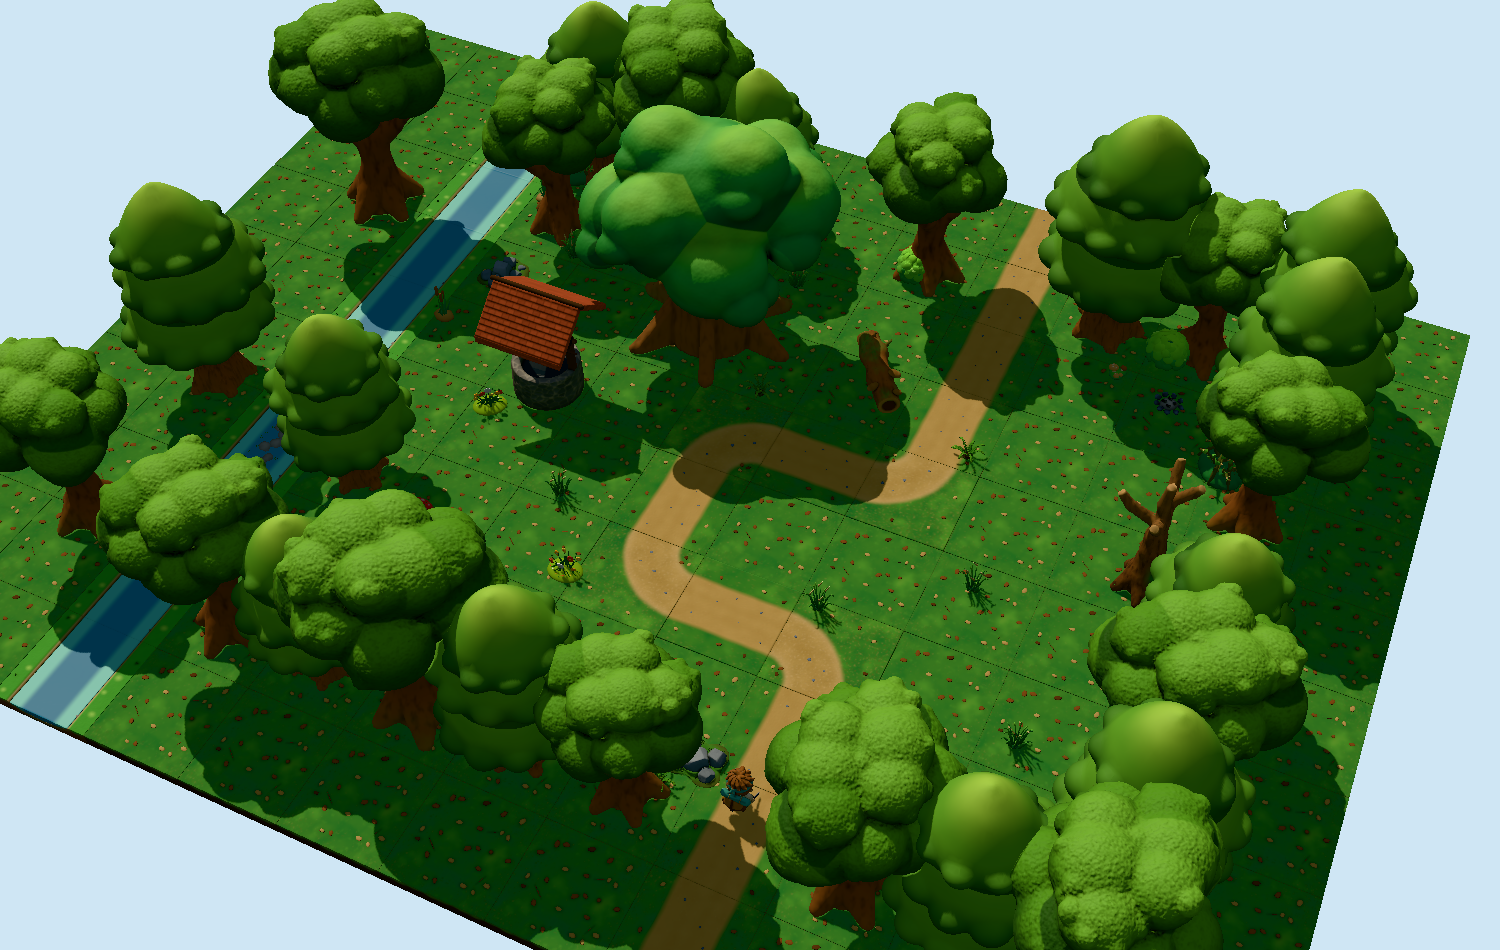
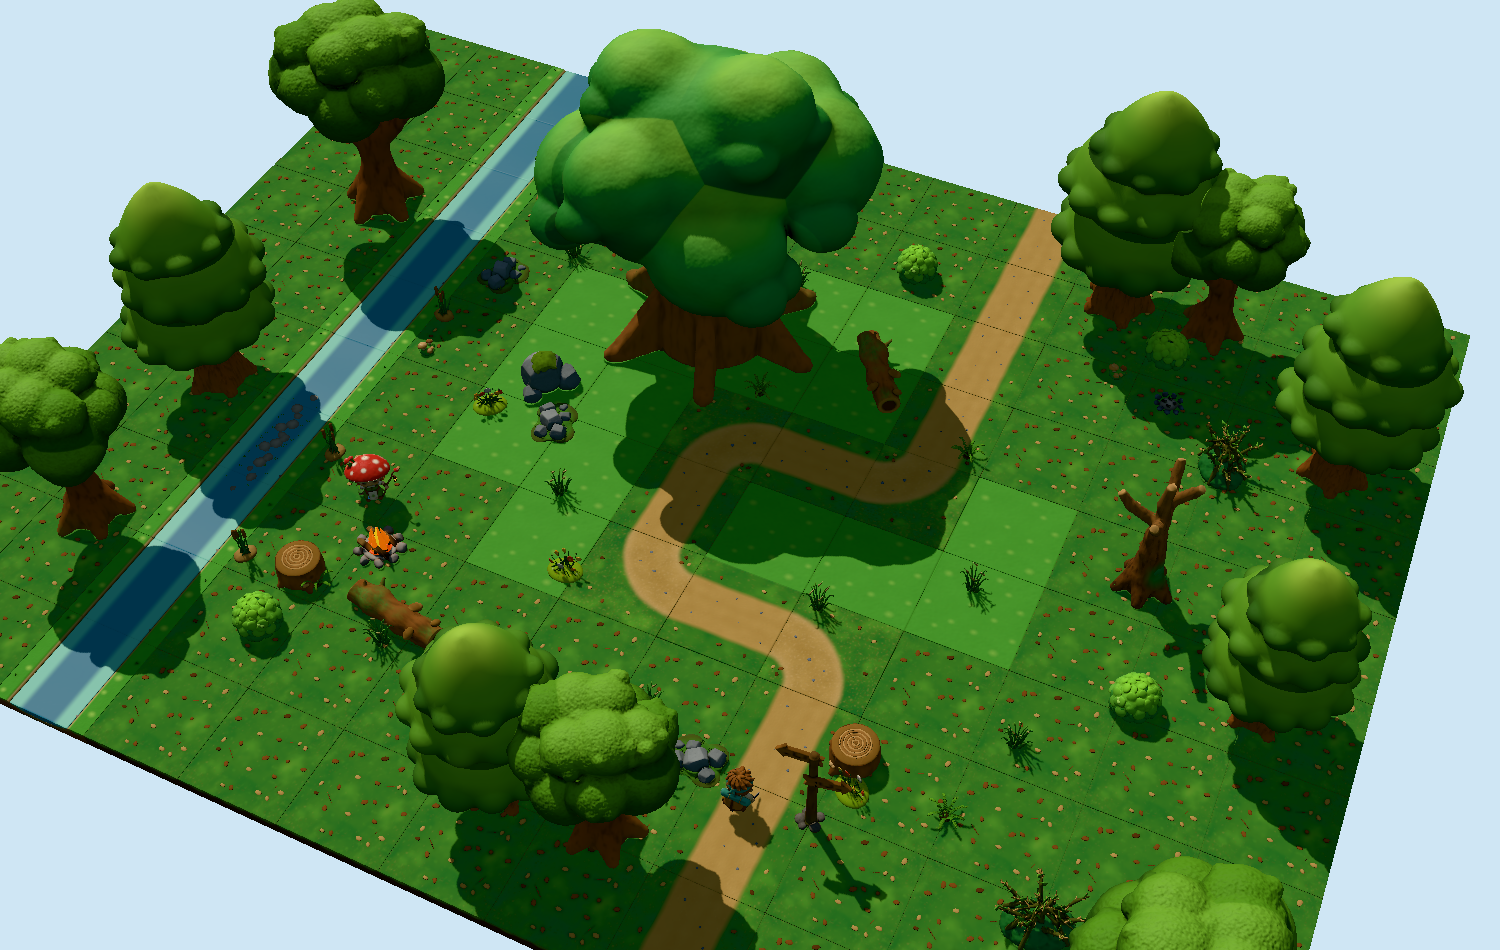
feat(maps): forest map (Old Oak Clearing) at 7.5
The clearing is open: 10 border trees (was 25), none within 5.8 m of
the ancient oak (scale 1.3); the campfire (scale 1.6) sits by the stream
with a log and a stump; a sunlit grass blob marks the clearing inside
the shaded forest floor. The roofed hamlet well became rocks.
Agent: forge-sonnet-medium, one feedback pass, orchestrator ground fix.

diff --git a/scenes/old-oak-clearing.ts b/scenes/old-oak-clearing.ts
@@ -47,27 +47,27 @@ export function oldOakClearingPlaces(): Place[] {
   { asset: 'forest-ground', at: [-5, 0, -9] },
   { asset: 'forest-ground', at: [-5, 0, -7] },
   { asset: 'forest-ground', at: [-5, 0, -5] },
-  { asset: 'forest-ground', at: [-5, 0, -3] },
-  { asset: 'forest-ground', at: [-5, 0, -1] },
-  { asset: 'forest-ground', at: [-5, 0, 1] },
+  { asset: 'grass-ground', at: [-5, 0, -3] },
+  { asset: 'grass-ground', at: [-5, 0, -1] },
+  { asset: 'grass-ground', at: [-5, 0, 1] },
   { asset: 'forest-ground', at: [-5, 0, 3] },
   { asset: 'forest-ground', at: [-5, 0, 5] },
   { asset: 'forest-ground', at: [-5, 0, 7] },
   { asset: 'forest-ground', at: [-5, 0, 9] },
   { asset: 'forest-ground', at: [-3, 0, -9] },
   { asset: 'forest-ground', at: [-3, 0, -7] },
-  { asset: 'forest-ground', at: [-3, 0, -5] },
-  { asset: 'forest-ground', at: [-3, 0, -3] },
-  { asset: 'forest-ground', at: [-3, 0, -1] },
-  { asset: 'forest-ground', at: [-3, 0, 1] },
-  { asset: 'forest-ground', at: [-3, 0, 3] },
+  { asset: 'grass-ground', at: [-3, 0, -5] },
+  { asset: 'grass-ground', at: [-3, 0, -3] },
+  { asset: 'grass-ground', at: [-3, 0, -1] },
+  { asset: 'grass-ground', at: [-3, 0, 1] },
+  { asset: 'grass-ground', at: [-3, 0, 3] },
   { asset: 'forest-ground', at: [-3, 0, 5] },
   { asset: 'forest-ground', at: [-3, 0, 7] },
   { asset: 'forest-ground', at: [-3, 0, 9] },
   { asset: 'forest-ground', at: [-1, 0, -9] },
   { asset: 'forest-ground', at: [-1, 0, -7] },
-  { asset: 'forest-ground', at: [-1, 0, -5] },
-  { asset: 'forest-ground', at: [-1, 0, -3] },
+  { asset: 'grass-ground', at: [-1, 0, -5] },
+  { asset: 'grass-ground', at: [-1, 0, -3] },
   { asset: 'footpath-corner', at: [-1, 0, -1], yaw: 270 },
   { asset: 'footpath-straight', at: [-1, 0, 1] },
   { asset: 'footpath-corner', at: [-1, 0, 3] },
@@ -76,10 +76,10 @@ export function oldOakClearingPlaces(): Place[] {
   { asset: 'forest-ground', at: [-1, 0, 9] },
   { asset: 'forest-ground', at: [1, 0, -9] },
   { asset: 'forest-ground', at: [1, 0, -7] },
-  { asset: 'forest-ground', at: [1, 0, -5] },
-  { asset: 'forest-ground', at: [1, 0, -3] },
+  { asset: 'grass-ground', at: [1, 0, -5] },
+  { asset: 'grass-ground', at: [1, 0, -3] },
   { asset: 'footpath-straight', at: [1, 0, -1], yaw: 90 },
-  { asset: 'forest-ground', at: [1, 0, 1] },
+  { asset: 'grass-ground', at: [1, 0, 1] },
   { asset: 'footpath-straight', at: [1, 0, 3], yaw: 90 },
   { asset: 'forest-ground', at: [1, 0, 5] },
   { asset: 'forest-ground', at: [1, 0, 7] },
@@ -89,7 +89,7 @@ export function oldOakClearingPlaces(): Place[] {
   { asset: 'footpath-straight', at: [3, 0, -5] },
   { asset: 'footpath-straight', at: [3, 0, -3] },
   { asset: 'footpath-corner', at: [3, 0, -1], yaw: 90 },
-  { asset: 'forest-ground', at: [3, 0, 1] },
+  { asset: 'grass-ground', at: [3, 0, 1] },
   { asset: 'footpath-corner', at: [3, 0, 3], yaw: 180 },
   { asset: 'footpath-straight', at: [3, 0, 5] },
   { asset: 'footpath-straight', at: [3, 0, 7] },
@@ -98,8 +98,8 @@ export function oldOakClearingPlaces(): Place[] {
   { asset: 'forest-ground', at: [5, 0, -7] },
   { asset: 'forest-ground', at: [5, 0, -5] },
   { asset: 'forest-ground', at: [5, 0, -3] },
-  { asset: 'forest-ground', at: [5, 0, -1] },
-  { asset: 'forest-ground', at: [5, 0, 1] },
+  { asset: 'grass-ground', at: [5, 0, -1] },
+  { asset: 'grass-ground', at: [5, 0, 1] },
   { asset: 'forest-ground', at: [5, 0, 3] },
   { asset: 'forest-ground', at: [5, 0, 5] },
   { asset: 'forest-ground', at: [5, 0, 7] },
@@ -134,9 +134,12 @@ export function oldOakClearingPlaces(): Place[] {
   { asset: 'forest-ground', at: [11, 0, 5] },
   { asset: 'forest-ground', at: [11, 0, 7] },
   { asset: 'forest-ground', at: [11, 0, 9] },
-  { asset: 'ancient-oak', at: [-2.5, 0, -3.5], yaw: 20 },
-  { asset: 'well', at: [-4.8, 0, -0.6] },
-  { asset: 'campfire', at: [-5.6, 0, 4.4] },
+  { asset: 'ancient-oak', at: [-2.5, 0, -3.5], yaw: 20, scale: 1.3 },
+  { asset: 'boulder', at: [-4.8, 0, -0.6], yaw: 40 },
+  { asset: 'rock-cluster', at: [-4.2, 0, 0.3], yaw: 120 },
+  { asset: 'fallen-log', at: [-4.4, 0, 5.7], yaw: 80 },
+  { asset: 'tree-stump', at: [-6.6, 0, 5.5], yaw: 20 },
+  { asset: 'campfire', at: [-5.6, 0, 4.4], scale: 1.6 },
   { asset: 'campfire-out', at: [6.8, 0, -5.4], yaw: 140 },
   { asset: 'fallen-log', at: [1.2, 0, -3.6], yaw: 35 },
   { asset: 'tree-stump', at: [4.2, 0, 4.8], yaw: 300 },
@@ -151,7 +154,7 @@ export function oldOakClearingPlaces(): Place[] {
   { asset: 'stepping-stone', at: [-9, -0.06, 3.6] },
   { asset: 'rock-cluster', at: [-7.3, 0, -3], yaw: 80 },
   { asset: 'mushroom', at: [-3.6, 0, -5] },
-  { asset: 'mushroom', at: [-7.4, 0, 1.8], yaw: 120 },
+  { asset: 'mushroom', at: [-7.6, 0, -0.4], yaw: 120 },
   { asset: 'mushroom', at: [5.6, 0, -5.8], yaw: 70 },
   { asset: 'rock-cluster', at: [1.8, 0, 6], yaw: 190 },
   { asset: 'tall-grass', at: [-3.2, 0, 1.8] },
@@ -180,32 +183,17 @@ export function oldOakClearingPlaces(): Place[] {
   { asset: 'wildflowers', at: [-2.2, 0, 3.4] },
   { asset: 'wildflowers', at: [4.4, 0, 5.4], yaw: 140 },
   { asset: 'wildflowers', at: [-5.6, 0, 0.4], yaw: 220 },
-  { asset: 'pine-tree', at: [-7, 0, -7], yaw: 10, scale: 0.9 },
-  { asset: 'oak-tree', at: [-5, 0, -7], yaw: 80, scale: 1.05 },
-  { asset: 'pine-tree', at: [-3, 0, -7], yaw: 190, scale: 0.8 },
-  { asset: 'oak-tree', at: [1, 0, -7], yaw: 260, scale: 0.95 },
-  { asset: 'pine-tree', at: [5, 0, -7], yaw: 330, scale: 1.1 },
-  { asset: 'oak-tree', at: [7, 0, -7], yaw: 45, scale: 0.85 },
-  { asset: 'pine-tree', at: [9, 0, -7], yaw: 135, scale: 1 },
-  { asset: 'oak-tree', at: [-7, 0, 7], yaw: 20, scale: 0.95 },
-  { asset: 'pine-tree', at: [-5, 0, 7], yaw: 110, scale: 0.8 },
-  { asset: 'oak-tree', at: [-3, 0, 7], yaw: 200, scale: 1.1 },
-  { asset: 'pine-tree', at: [-1, 0, 7], yaw: 285, scale: 0.9 },
-  { asset: 'oak-tree', at: [1, 0, 7], yaw: 350, scale: 0.85 },
-  { asset: 'oak-tree', at: [5, 0, 7], yaw: 70, scale: 1 },
-  { asset: 'pine-tree', at: [7, 0, 7], yaw: 160, scale: 0.9 },
-  { asset: 'oak-tree', at: [9, 0, 7], yaw: 240, scale: 1.05 },
-  { asset: 'oak-tree', at: [-7, 0, -5], yaw: 55, scale: 0.9 },
-  { asset: 'pine-tree', at: [-7, 0, 3], yaw: 305, scale: 0.85 },
-  { asset: 'pine-tree', at: [9, 0, -5], yaw: 95, scale: 1 },
-  { asset: 'oak-tree', at: [9, 0, -3], yaw: 175, scale: 0.9 },
-  { asset: 'pine-tree', at: [9, 0, 1], yaw: 265, scale: 0.85 },
-  { asset: 'oak-tree', at: [9, 0, 3], yaw: 355, scale: 1 },
-  { asset: 'pine-tree', at: [9, 0, 5], yaw: 125, scale: 0.95 },
+  { asset: 'pine-tree', at: [5, 0, -7.8], yaw: 330, scale: 1.1 },
+  { asset: 'oak-tree', at: [7, 0, -7.8], yaw: 45, scale: 0.85 },
+  { asset: 'pine-tree', at: [-1, 0, 7.8], yaw: 285, scale: 0.9 },
+  { asset: 'oak-tree', at: [1, 0, 7.8], yaw: 350, scale: 0.85 },
+  { asset: 'oak-tree', at: [10.2, 0, 7.8], yaw: 240, scale: 1.05 },
+  { asset: 'pine-tree', at: [10.2, 0, -5], yaw: 95, scale: 1 },
+  { asset: 'pine-tree', at: [10.2, 0, 1], yaw: 265, scale: 0.85 },
   { asset: 'oak-tree', at: [-11, 0, -4], yaw: 15, scale: 1.1 },
   { asset: 'pine-tree', at: [-11, 0, 2], yaw: 215, scale: 1 },
   { asset: 'oak-tree', at: [-11, 0, 6], yaw: 145, scale: 0.9 },
   { asset: 'adventurer', at: [2.8, 0, 6.4], yaw: 180 },
-  { asset: 'druid', at: [-5, 0, 4], yaw: 230 },
+  { asset: 'druid', at: [-6.4, 0, 3.4], yaw: 40 },
   ];
 }

diff --git a/docs/forest-mockups/map.md b/docs/forest-mockups/map.md
@@ -11,7 +11,7 @@ center: x = (c-5.5)·2, z = (r-4.5)·2; +X east, -Z north.
   ~ . . . . . = . . .
   ~ . . . . . = . c .
   ~ . . O . L = . . .
-  ~ . W . + = + . D .
+  ~ . B . + = + . D .
   ~ . . . = . . . . .
   ~ . . . + = + . . .
   ~ . C . . . = T . .
@@ -35,28 +35,29 @@ clearing; the dead tree stands out on the east treeline.
 
 | component | count | where |
 |-----------|-------|-------|
-| forest-ground | 106 | |
-| oak-tree | 13 | |
-| pine-tree | 12 | |
+| forest-ground | 90 | |
+| grass-ground | 16 | |
 | river-straight | 10 | |
 | footpath-straight | 10 | |
 | tall-grass | 8 | |
 | fern | 6 | |
 | bush | 6 | |
+| pine-tree | 5 | |
+| oak-tree | 5 | |
 | footpath-corner | 4 | |
 | reeds | 4 | |
+| rock-cluster | 3 | |
 | stepping-stone | 3 | |
 | mushroom | 3 | |
 | bramble | 3 | |
 | wildflowers | 3 | |
-| rock-cluster | 2 | |
+| fallen-log | 2 | |
+| tree-stump | 2 | |
 | ancient-oak | 1 | |
-| well | 1 | |
+| boulder | 1 | |
 | campfire | 1 | |
 | campfire-out | 1 | |
-| fallen-log | 1 | |
-| tree-stump | 1 | |
 | dead-tree | 1 | |
 | signpost | 1 | |
 
-Total placed instances: 203 (plus 2 figures).
+Total placed instances: 191 (plus 2 figures).
